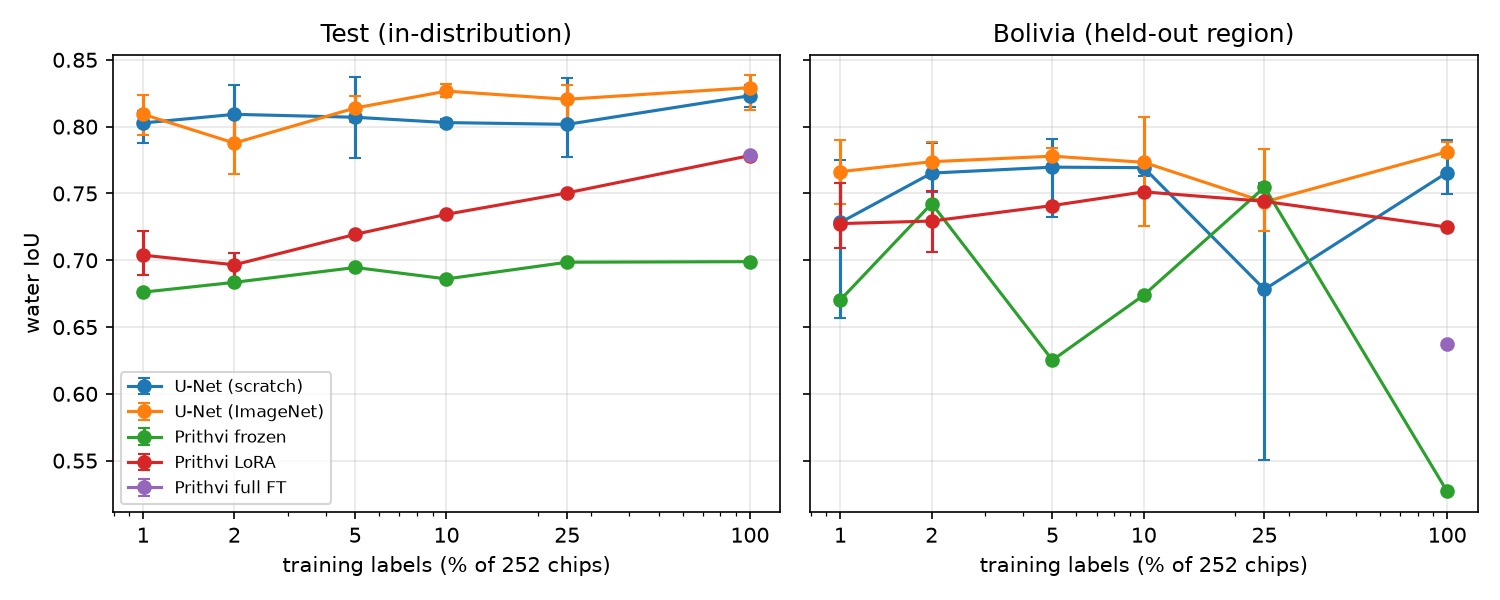
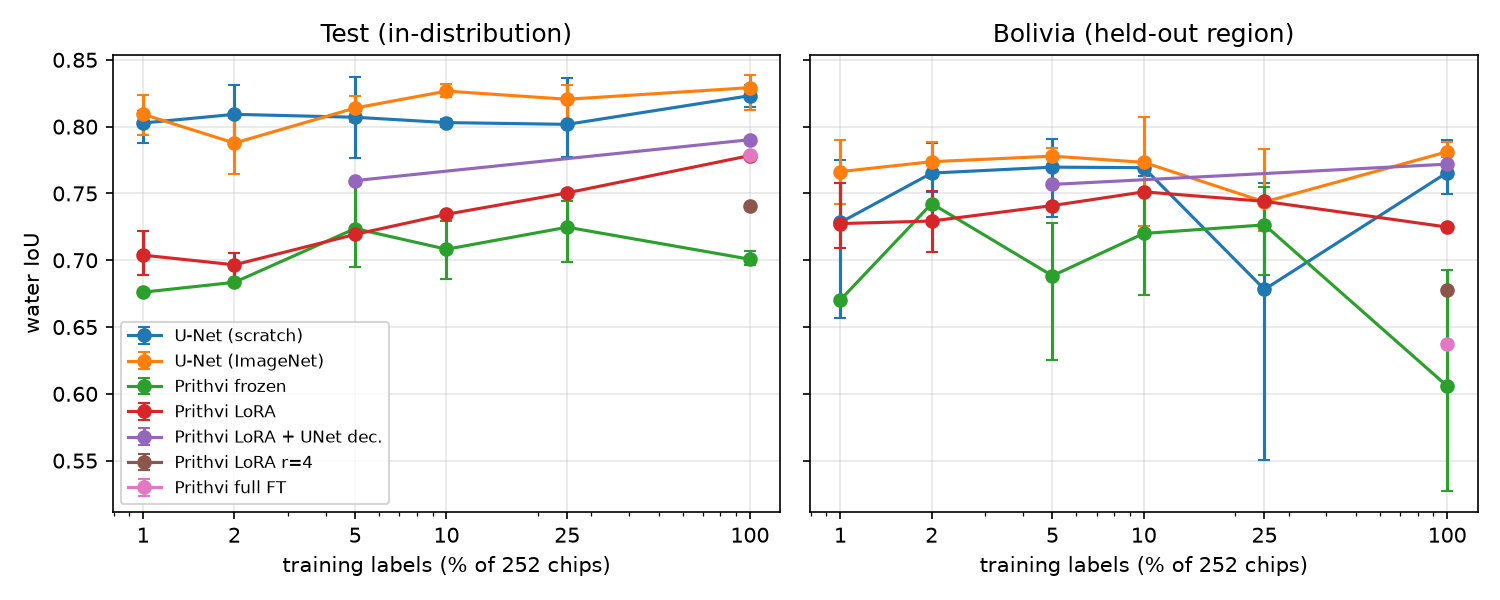
Merge Colab Prithvi-frozen seeds 1-2 (64 runs); decoder and LoRA-rank ablation notes
- prithvi_frozen now has 3 seeds at 100/25/10/5 %: flat at 0.70-0.73 test water IoU
- multi-scale UNet decoder recovers 1-4 points over the FCN head but still trails the U-Nets
- LoRA r=4 loses 4 points against r=8

diff --git a/docs/LAB_NOTEBOOK.md b/docs/LAB_NOTEBOOK.md
@@ -138,3 +138,10 @@ Template:
 - Reading: the "3 chips -> 0.81" result was **not** a lucky draw. Across three different subsets the U-Nets stay at 0.79-0.81 and LoRA at 0.69-0.71; the ~10-point gap is 5x the subset std. Claim 2 is refuted down to 1 % of the labels. Bolivia std for scratch at 1 % is large (0.063) - the OOD split remains noisy.
 - Reading 2: the ImageNet-vs-scratch difference at tiny fractions is within noise (0.788 vs 0.809 at 2 %, 0.809 vs 0.803 at 1 %).
 - Next: decoder ablation (running), LoRA rank/targets (queued), Colab Prithvi seeds.
+
+## 2026-09-11, Colab batch 1: Prithvi frozen seeds 1-2 (64 runs total)
+- Merged 8 Colab runs: `prithvi_frozen` seeds 1-2 at 1.0 / 0.25 / 0.10 / 0.05 (~27 GPU-min each on T4, 3x slower than the local 3070 Ti).
+- Frozen with 3 seeds (test water IoU): 100 % 0.701 ± 0.005, 25 % 0.725 ± 0.024, 10 % 0.708 ± 0.022, 5 % 0.724 ± 0.034. Completely flat in the label count, as expected for a fixed encoder, and 8-12 points below the U-Nets everywhere.
+- **The 8 `prithvi_lora` seed-1/2 runs on Colab all failed**, each after ~45 s (only `config.yaml` written, timestamps 14:09-14:15). The frozen runs on the same machine and the same LoRA config locally both work, so the suspect is the `peft` version Colab installs vs the local 0.20.0. Waiting on `runs/prithvi_lora_f1.00_s1.log` from Drive to see the traceback.
+- Decoder ablation (local, seed 0): LoRA + multi-scale UNet decoder 0.790 test / 0.772 Bolivia at 100 % (FCN head: 0.778 / 0.725) and 0.760 at 5 % (FCN: 0.719). The better decoder recovers 1-4 points and most of the Bolivia gap but still trails the U-Net by 3-5 points: **the shortfall is in the encoder representation for this task, not in the head.**
+- LoRA rank ablation (local, seed 0, 100 %): r=4 -> 0.740 test / 0.678 Bolivia vs r=8 -> 0.778 / 0.725. r=16 and the qkv+proj+fc variant are still to run (stopped mid-run when the laptop was needed).
